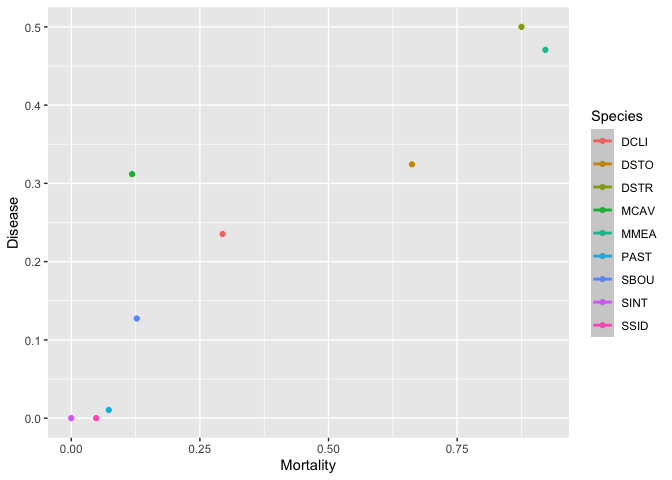
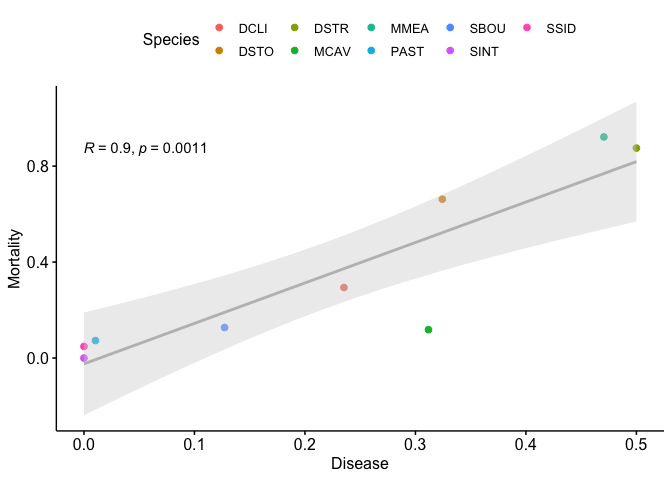
update to disease mort plot

diff --git a/SCTLD_surv_corr.md b/SCTLD_surv_corr.md
@@ -473,9 +473,14 @@ corrplot(res2$r, type="upper", order="hclust",
 ![](Figures/significant%20correlations%20BEST-1.png)<!-- -->
 
 ``` r
-ggplot(data=df_w, mapping = aes(x = Mortality, y = Disease, color = Species)) +
-  geom_point() +
-  geom_smooth(method = "lm")
+ggscatter(df_w, y = "Mortality", x = "Disease",
+       add = "reg.line",
+       conf.int = TRUE,
+       color = "Species", 
+       add.params = list(color = "gray",
+                         fill = "lightgray")
+       ) + 
+  stat_cor() #Add correlation coeff
 ```
 
     ## `geom_smooth()` using formula 'y ~ x'
